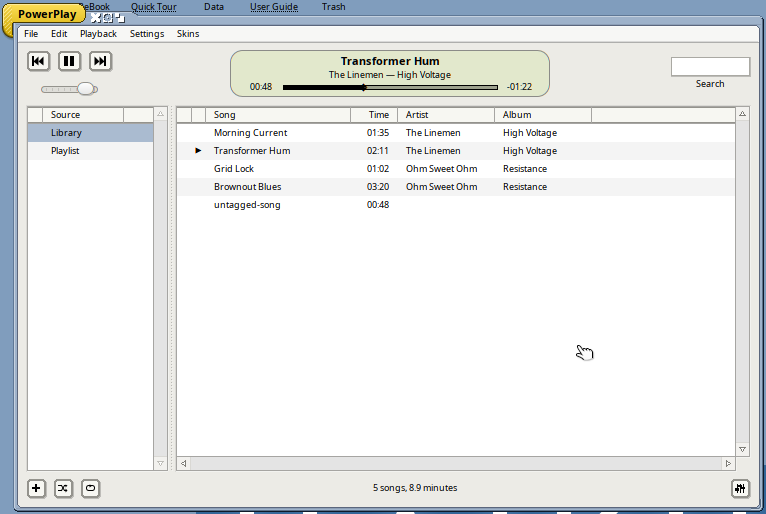
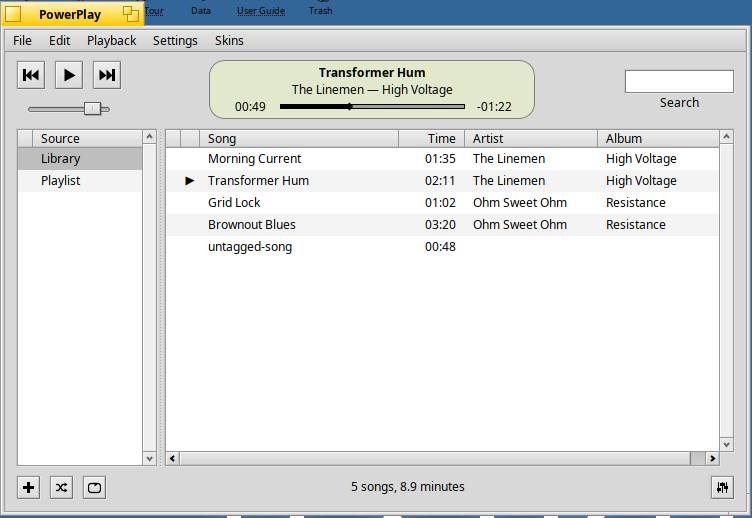
0.2.0; the Library window in the README, in Haiku's look and Gonx's
Claude-Session: https://claude.ai/code/session_01PoWUVPBWb58ZHf26YnFbbB

diff --git a/README.md b/README.md
@@ -27,7 +27,11 @@ The same on Linux, with the playlist.
 
 The Library window (Skins ▸ Library window): the songs PowerPlay knows, with
 their titles, artists and albums read from their tags, a search field, and
-the playlist as a second source.
+the playlist as a second source. It's made of Haiku's own controls, so it
+takes on the system's look, here with the
+[Gonx](https://github.com/idumych/gonx) decorator and control look:
+
+![The Library window with the Gonx look](docs/screenshots/haiku-library-gonx.png)
 
 ### Winamp skins
 
